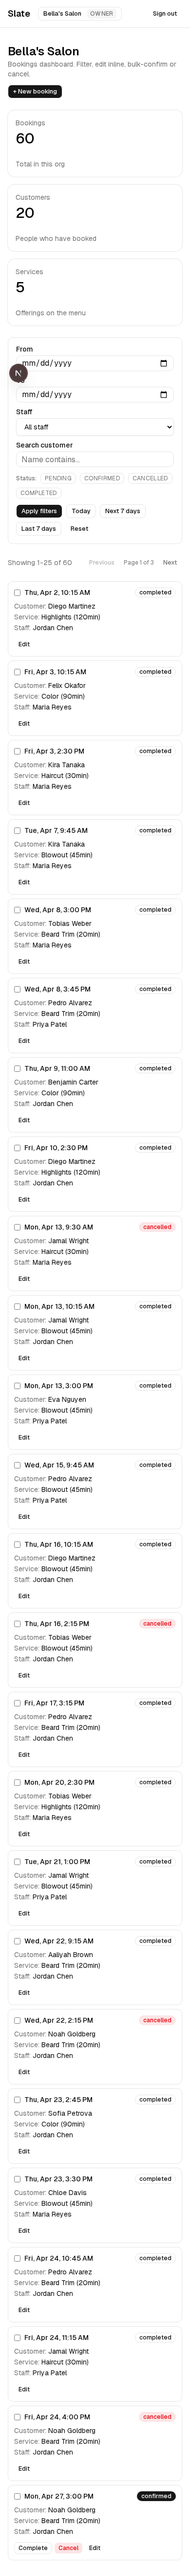
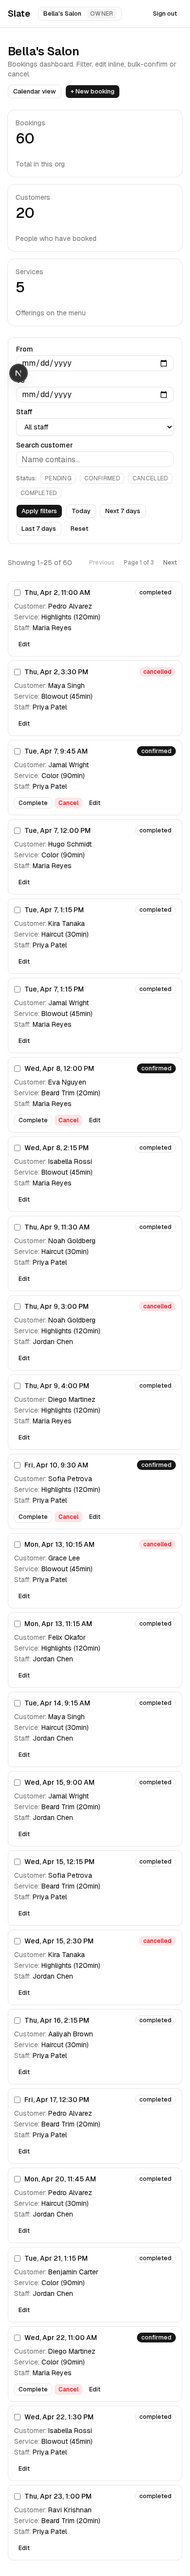
Wire /dashboard/calendar route, add Phase 4 smoke and screenshots
calendar/page.tsx: reads ?view=&date= via parseCalendarParams,
queries listFilteredBookings with from/to spanning the displayed
range, and renders DayGrid or WeekGrid. The list dashboard now
exposes a Calendar view link in its header.

phase4-smoke.mjs: 4 functional checks (link visible, week view
renders bookings, day view exposes a draggable booking, drag
fires the reschedule action) plus two screenshot captures
(week view today, day view picked from the +/-14-day window
with the most bookings so the screenshot is rich).

README image roll updated with the calendar week and day shots
between the dashboard list and the edit dialog.

diff --git a/src/app/(app)/dashboard/calendar/page.tsx b/src/app/(app)/dashboard/calendar/page.tsx
@@ -1,0 +1,51 @@
+import { requireOrgScope } from "@/lib/auth/scope";
+import {
+  listFilteredBookings,
+  listOrgStaff,
+} from "@/lib/bookings/queries";
+import {
+  parseCalendarParams,
+  rangeForView,
+} from "@/lib/calendar/dates";
+import { CalendarToolbar } from "@/components/calendar/calendar-toolbar";
+import { DayGrid } from "@/components/calendar/day-grid";
+import { WeekGrid } from "@/components/calendar/week-grid";
+
+type SearchParams = Promise<Record<string, string | string[] | undefined>>;
+
+export default async function CalendarPage({
+  searchParams,
+}: {
+  searchParams: SearchParams;
+}) {
+  const scope = await requireOrgScope();
+  const params = await searchParams;
+  const { view, date } = parseCalendarParams(params);
+  const range = rangeForView(view, date);
+
+  const [staff, filtered] = await Promise.all([
+    listOrgStaff(scope.orgId),
+    listFilteredBookings(
+      scope.orgId,
+      { from: range.from, to: range.to },
+      { limit: 500, offset: 0 },
+    ),
+  ]);
+
+  return (
+    <div className="space-y-4">
+      <div>
+        <h1 className="text-2xl font-semibold tracking-tight">{scope.orgName}</h1>
+        <p className="text-sm text-muted-foreground">
+          Calendar view. Drag a booking to reschedule.
+        </p>
+      </div>
+      <CalendarToolbar view={view} date={date} />
+      {view === "day" ? (
+        <DayGrid date={date} staff={staff} bookings={filtered.rows} />
+      ) : (
+        <WeekGrid anchor={date} bookings={filtered.rows} />
+      )}
+    </div>
+  );
+}

diff --git a/src/app/(app)/dashboard/page.tsx b/src/app/(app)/dashboard/page.tsx
@@ -1,4 +1,5 @@
 import { count, eq } from "drizzle-orm";
+import { cn } from "@/lib/utils";
 import { buttonVariants } from "@/components/ui/button";
 import {
   Card,
@@ -102,12 +103,21 @@ export default async function DashboardPage({
           </p>
         </div>
         {!noOrgData ? (
-          <NewBookingDialog
-            customers={customerList}
-            services={serviceList}
-            staff={staffList}
-            defaultStartAt={nextWeekdayAtTen()}
-          />
+          <div className="flex items-center gap-2">
+            <Link
+              href="/dashboard/calendar"
+              className={cn(buttonVariants({ variant: "outline", size: "sm" }))}
+              data-testid="open-calendar"
+            >
+              Calendar view
+            </Link>
+            <NewBookingDialog
+              customers={customerList}
+              services={serviceList}
+              staff={staffList}
+              defaultStartAt={nextWeekdayAtTen()}
+            />
+          </div>
         ) : null}
       </div>
 

diff --git a/README.md b/README.md
@@ -40,6 +40,8 @@ Seed data ships as Bella's Salon: haircut, color, blowout services; staff named 
 Screenshots land in `/screenshots/` as each phase ships. More appear here as the build progresses.
 
 ![Bookings dashboard with filters, pagination, and inline actions](screenshots/03-dashboard.png)
+![Calendar week view with status-colored blocks](screenshots/08-calendar-week.png)
+![Calendar day view with staff columns and drag-to-reschedule](screenshots/09-calendar-day.png)
 ![Edit booking dialog (reschedule + notes + delete)](screenshots/07-edit-dialog.png)
 ![Mobile-responsive layout (390px wide)](screenshots/06-bookings-mobile.png)
 ![Org switcher](screenshots/04-org-switcher.png)
